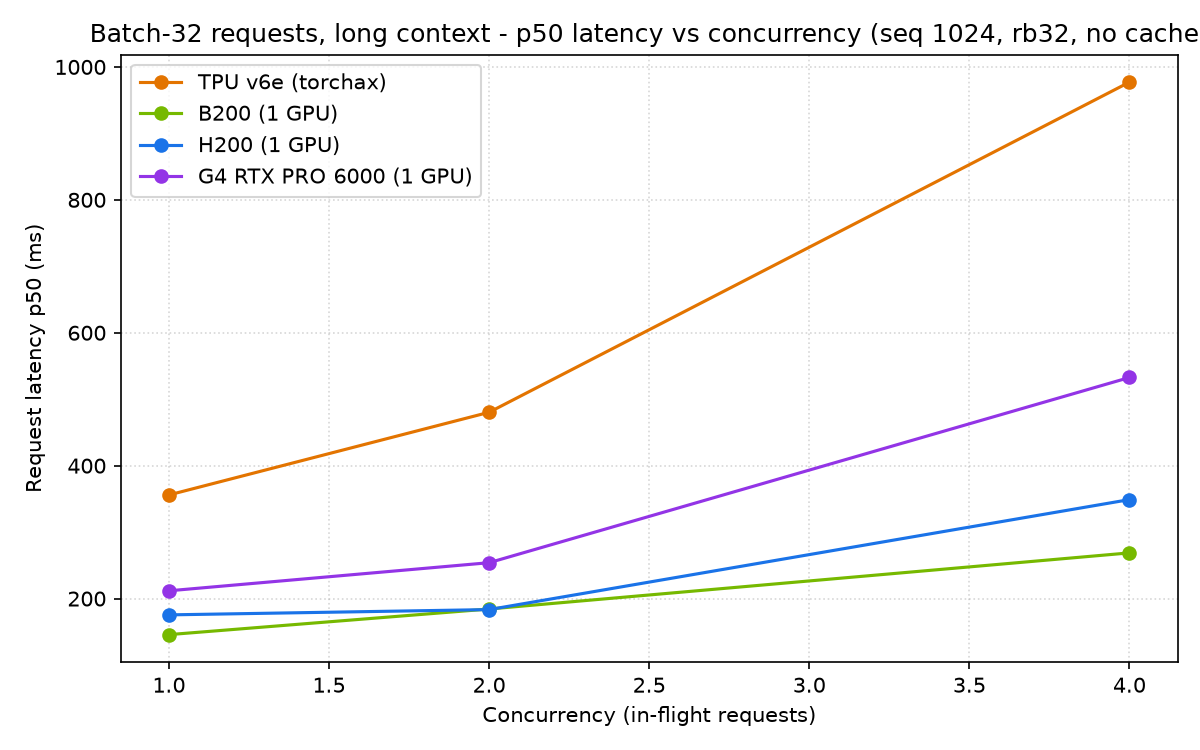
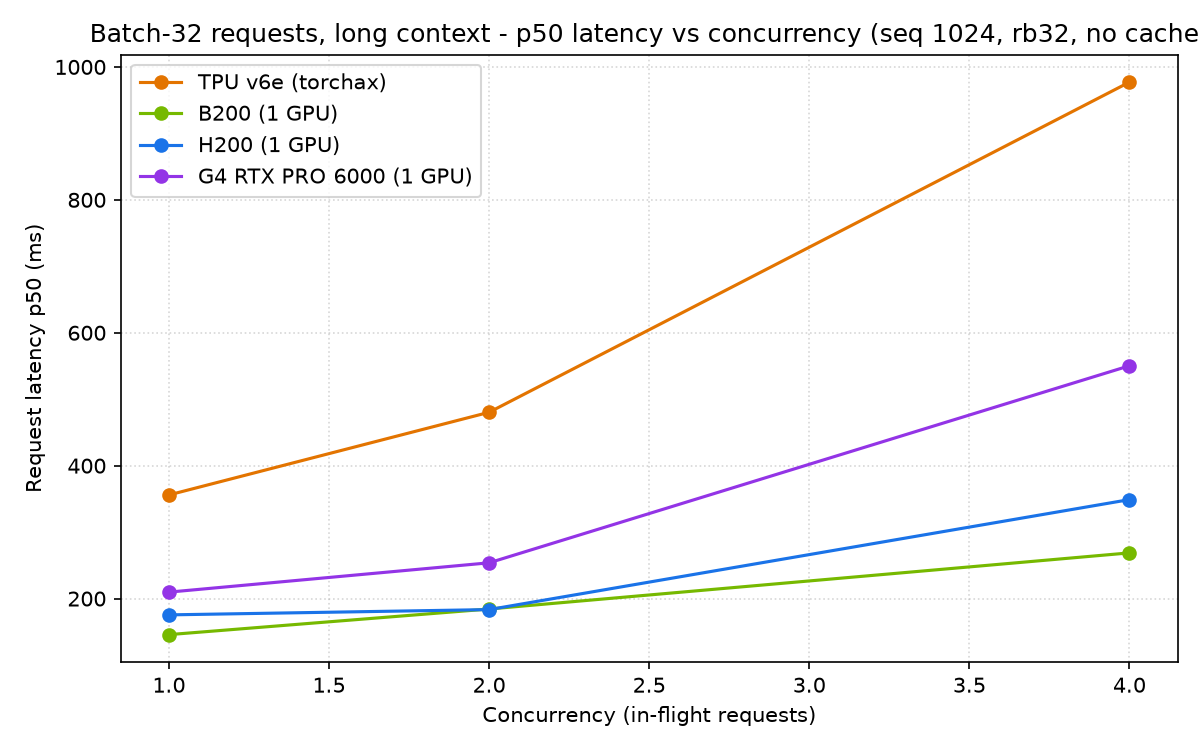
Audit hardening: add strict concurrency audit (scripts/audit_concurrency.py) validating schema, endpoint, no-cache, seq/rb-vs-filename, monotonic percentiles, qps=iters/wall, and qps-vs-latency plausibility, cross-checked to README. It caught a contaminated G4 seq1024 conc-1 cell (wall/qps inflated 

diff --git a/scripts/audit_concurrency.py b/scripts/audit_concurrency.py
@@ -1,0 +1,114 @@
+#!/usr/bin/env python3
+"""Deep integrity audit for the CONCURRENCY artifacts (in addition to scripts/audit_repo.py).
+
+Checks, per results/conc_<dev>_seq<seq>_rb<rb>.json:
+  - valid JSON; required top-level fields present and correct:
+      model, device, endpoint == .../v1/rerank, prefix_caching is False (customer rule),
+      seq_len_target in {512,1024}, req_batch in {1,32}, filename matches seq/rb metadata.
+  - each by_concurrency row: concurrency in the requested set; iters>0; wall_s>0;
+      percentiles monotonic p50<=p90<=p99; mean within [p50*0.5, p99*1.5] sanity band;
+      qps ~= iters/wall_s (within 20%); qps <= concurrency*1000/p50_ms*1.5 (can't beat the
+      theoretical max requests/s given latency and concurrency, with slack) and
+      qps >= concurrency*1000/mean_ms*0.5 (shouldn't be absurdly low vs latency).
+  - device label matches the filename device token.
+Then recompute the README concurrency table (single-pair seq512) values from the JSON and confirm
+each printed p50 and peak req/s appears verbatim in README.md. Also recompute the $/1k example values.
+
+Exit non-zero on ANY failure. This is intentionally strict to catch fabrication/mismatch.
+"""
+import json, os, re, sys, glob
+
+ROOT = os.path.dirname(os.path.dirname(os.path.abspath(__file__)))
+RES = os.path.join(ROOT, "results"); CH = os.path.join(ROOT, "charts")
+PRICE = {"tpu": 1.61, "b200": 6.95, "h200": 3.85, "g4": 3.11}
+LABELTOK = {"tpu": "tpu", "b200": "B200", "h200": "H200", "g4": "G4"}
+fails = []
+
+def c1k(dev, ms): return round((PRICE[dev]/3600.0)*(ms/1000.0)*1000.0, 5)
+
+files = sorted(glob.glob(os.path.join(RES, "conc_*.json")))
+if not files:
+    print("no concurrency files found"); sys.exit(1)
+
+parsed = {}
+for f in files:
+    b = os.path.basename(f)
+    m = re.match(r"conc_(tpu|b200|h200|g4)_seq(\d+)_rb(\d+)\.json$", b)
+    if not m:
+        fails.append(f"{b}: filename does not match expected pattern"); continue
+    dev, seq, rb = m.group(1), int(m.group(2)), int(m.group(3))
+    if os.path.getsize(f) == 0:
+        fails.append(f"{b}: empty file"); continue
+    try:
+        d = json.load(open(f))
+    except Exception as e:
+        fails.append(f"{b}: invalid JSON ({e})"); continue
+    # top-level checks
+    if not str(d.get("endpoint","")).endswith("/v1/rerank"):
+        fails.append(f"{b}: endpoint is not /v1/rerank ({d.get('endpoint')})")
+    if d.get("prefix_caching") is not False:
+        fails.append(f"{b}: prefix_caching not False")
+    if d.get("seq_len_target") != seq:
+        fails.append(f"{b}: seq_len_target {d.get('seq_len_target')} != filename {seq}")
+    if d.get("req_batch") != rb:
+        fails.append(f"{b}: req_batch {d.get('req_batch')} != filename {rb}")
+    if LABELTOK[dev] not in str(d.get("device","")):
+        fails.append(f"{b}: device label '{d.get('device')}' missing token {LABELTOK[dev]}")
+    # per-row checks
+    for r in d.get("by_concurrency", []):
+        c = r["concurrency"]; tag = f"{b} c{c}"
+        if r.get("iters", 0) <= 0: fails.append(f"{tag}: iters<=0")
+        if r.get("wall_s", 0) <= 0: fails.append(f"{tag}: wall_s<=0")
+        p50, p90, p99 = r["req_latency_ms_p50"], r["req_latency_ms_p90"], r["req_latency_ms_p99"]
+        mean = r["req_latency_ms_mean"]
+        if not (p50 <= p90 + 1e-6 <= p99 + 1e-6):
+            fails.append(f"{tag}: percentiles not monotonic {p50}/{p90}/{p99}")
+        if not (p50*0.5 <= mean <= p99*1.5):
+            fails.append(f"{tag}: mean {mean} outside sanity band [{p50*0.5},{p99*1.5}]")
+        qps = r["qps"]
+        exp_qps = r["iters"]/r["wall_s"]
+        if abs(qps-exp_qps)/max(exp_qps,1e-9) > 0.2:
+            fails.append(f"{tag}: qps {qps} != iters/wall {exp_qps:.2f}")
+        # concurrency/latency vs qps consistency: with C in flight and mean latency, qps ~ C/mean_s.
+        theo = c / (mean/1000.0)
+        if qps > theo*1.6:
+            fails.append(f"{tag}: qps {qps} implausibly high vs C/mean {theo:.1f} (latency/throughput inconsistent)")
+        if qps < theo*0.4:
+            fails.append(f"{tag}: qps {qps} implausibly low vs C/mean {theo:.1f}")
+    parsed[(dev,seq,rb)] = {r["concurrency"]: r for r in d.get("by_concurrency", [])}
+
+# cross-check README single-pair seq512 table (the one shown in README)
+readme = open(os.path.join(ROOT, "README.md")).read()
+for dev in ["tpu","b200","h200","g4"]:
+    key = (dev,512,1)
+    if key not in parsed: continue
+    for c in (1,2,4,8):
+        if c in parsed[key]:
+            p50 = parsed[key][c]["req_latency_ms_p50"]
+            # README rounds to 1 decimal (e.g. 11.1 ms); check the rounded value appears
+            r1 = f"{round(p50,1)} ms"
+            if r1 not in readme:
+                fails.append(f"README concurrency: {dev} c{c} p50 {r1} not found")
+    # peak req/s (max qps across concurrencies) shown in README as integer
+    peak = int(round(max(parsed[key][c]["qps"] for c in parsed[key])))
+    if str(peak) not in readme:
+        fails.append(f"README concurrency: {dev} peak req/s {peak} not found")
+
+# cross-check README's conc-1 $/1k example values
+for dev, ms_ref in [("tpu",None),("g4",None),("h200",None),("b200",None)]:
+    key=(dev,512,1)
+    if key in parsed and 1 in parsed[key]:
+        v = c1k(dev, parsed[key][1]["req_latency_ms_p50"])
+        if f"${v}" not in readme:
+            fails.append(f"README conc-1 $/1k for {dev} = ${v} not found")
+
+print("="*64)
+if fails:
+    print("CONCURRENCY AUDIT FAILED -", len(fails), "issue(s):")
+    for x in fails: print("  -", x)
+    sys.exit(1)
+print("CONCURRENCY AUDIT PASSED - all concurrency artifacts consistent, reproducible, matched to README.")
+for (dev,seq,rb),rows in sorted(parsed.items()):
+    cs = ",".join(str(c) for c in sorted(rows))
+    print(f"  {dev:5} seq{seq} rb{rb}: conc [{cs}]")
+sys.exit(0)

diff --git a/charts/concurrency_tables.md b/charts/concurrency_tables.md
@@ -24,9 +24,9 @@ Served via `vllm serve` /v1/rerank; prefix caching OFF; fresh randomized content
 
 | Conc | TPU v6e (torchax) p50 / p90 / p99 ms | req/s | $/1k | B200 (1 GPU) p50 / p90 / p99 ms | req/s | $/1k | H200 (1 GPU) p50 / p90 / p99 ms | req/s | $/1k | G4 RTX PRO 6000 (1 GPU) p50 / p90 / p99 ms | req/s | $/1k |
 |---:|---|---|---|---|
-| 1 | 355.952/357.217/412.871 | 2.625 | $0.15919 | 145.767/151.375/155.298 | 6.363 | $0.28141 | 175.478/178.714/180.494 | 5.361 | $0.18766 | 211.714/214.392/261.326 | 0.752 | $0.1829 |
-| 2 | 480.343/482.032/483.08 | 3.991 | $0.21482 | 184.316/189.044/193.337 | 10.191 | $0.35583 | 183.429/187.333/212.304 | 10.205 | $0.19617 | 254.006/286.796/294.153 | 7.209 | $0.21943 |
-| 4 | 977.128/983.107/1012.227 | 3.995 | $0.43699 | 268.762/505.915/532.652 | 11.128 | $0.51886 | 348.934/352.605/495.276 | 11.011 | $0.37317 | 532.686/550.445/607.253 | 7.253 | $0.46018 |
+| 1 | 355.952/357.217/412.871 | 2.625 | $0.15919 | 145.767/151.375/155.298 | 6.363 | $0.28141 | 175.478/178.714/180.494 | 5.361 | $0.18766 | 209.711/212.016/214.138 | 4.548 | $0.18117 |
+| 2 | 480.343/482.032/483.08 | 3.991 | $0.21482 | 184.316/189.044/193.337 | 10.191 | $0.35583 | 183.429/187.333/212.304 | 10.205 | $0.19617 | 253.836/286.627/286.931 | 7.279 | $0.21929 |
+| 4 | 977.128/983.107/1012.227 | 3.995 | $0.43699 | 268.762/505.915/532.652 | 11.128 | $0.51886 | 348.934/352.605/495.276 | 11.011 | $0.37317 | 550.31/551.072/551.442 | 7.253 | $0.47541 |
 | 8 | - | - | - | - | - | - | - | - | - | - | - | - |
 
 ## Operating point: p90 < 100 ms (rough SLA)
